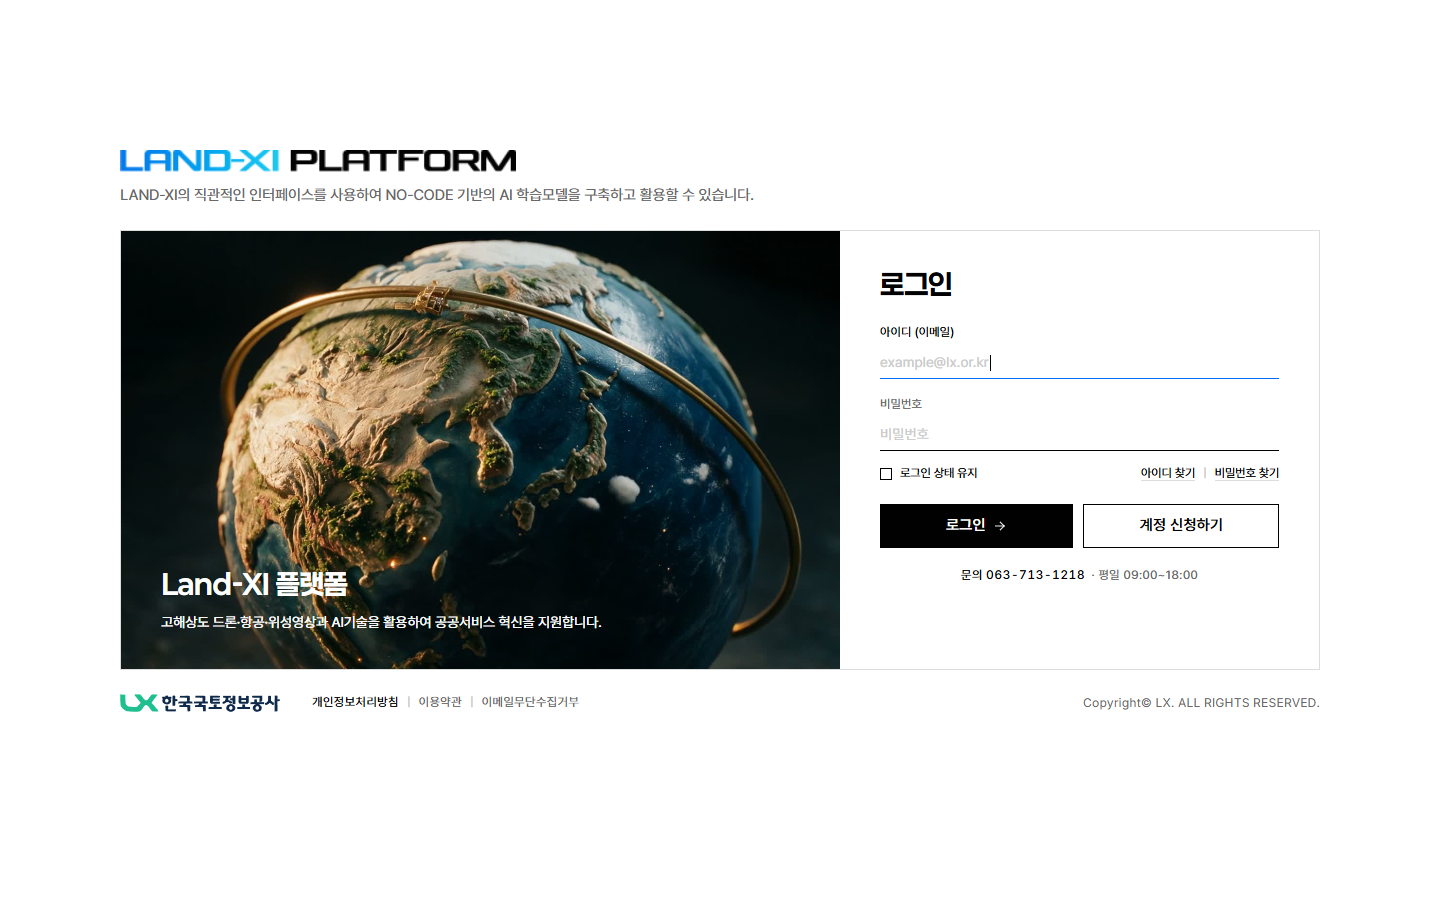
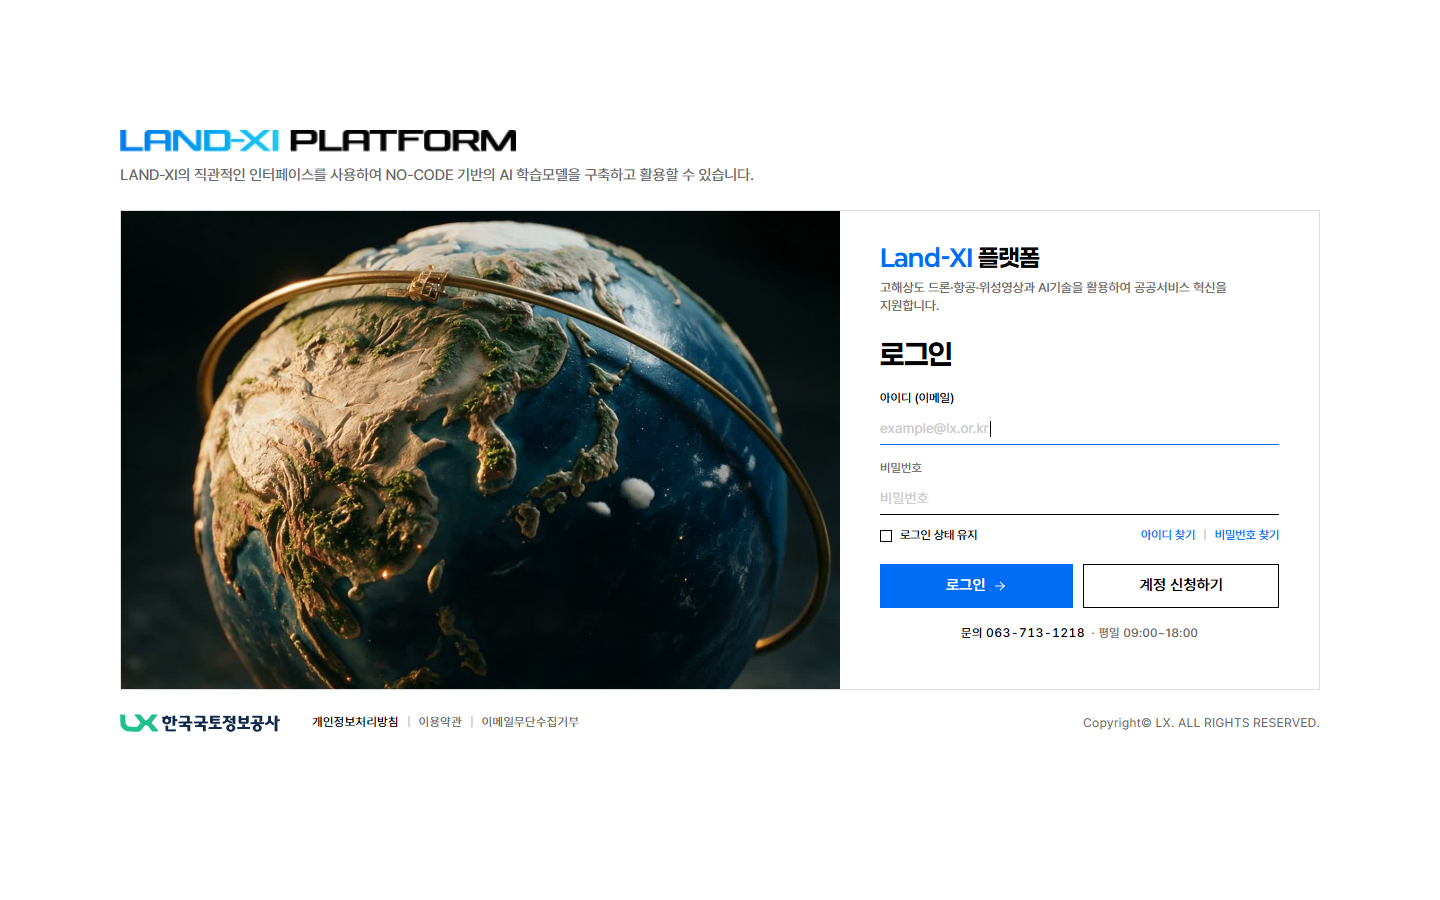
feat(login): 흑+청 배합 — 필름 안 글자 0, 태그라인을 로그인 제목 위로, CTA·링크·체크 액센트 #006DF7 (5차 개정)
- 필름 판: 태그라인 삭제(글자 0). 우 패널 맨 위에 Land-XI(액센트)+플랫폼(잉크) Paperlogy 24 + 한 줄 13 회색, 그 아래 로그인 28
- 카드 1200×440 → 1200×480(y 210–690, 중심 유지), 우 패널 세로 재배분(예산 478 중 424)
- 액센트 4곳: 워드마크 Land-XI · 로그인 CTA 채움(로그인 예외, NOTES §14) · 찾기 링크 · 체크. 계정 신청하기 헤어라인 잉크, 그라디언트/그림자/radius 0
- 마스터 B5-Login 동일 반영 + 렌더, e2e 17건(필름 텍스트 0 · 태그라인 위치 · 액센트 rgb(0,109,247) 자리 목록 · 카드 480) 통과

Claude-Session: https://claude.ai/code/session_01WM9MJXSpdbCfwY8af3obk9

Changed region(s): [[0.0625, 0.1244, 0.875, 0.8089], [0.75, 0.7778, 0.9062, 0.8089], [0.7812, 0.4978, 0.9062, 0.5289]]

diff --git a/landxi/proto/login.css b/landxi/proto/login.css
@@ -1,16 +1,16 @@
-/* Land-XI 로그인 — 마스터 design-canvas/v2/B5-Login.dc.html (NOTES §14 · 4차 개정).
-   구 랜드XI(login.do)의 구도만 가져온다: 페이지 중앙의 작은 카드 하나(1200×440, 1440×900 에서 x 120–1320 · y 230–670),
-   좌 60% = 디오라마 오프닝 필름(Leg 01) + 흰 태그라인 · 우 40% = 압축 폼. 카드 위 = Land-XI CI + 원본 소개 한 줄,
+/* Land-XI 로그인 — 마스터 design-canvas/v2/B5-Login.dc.html (NOTES §14 · 5차 개정).
+   구 랜드XI(login.do)의 구도만 가져온다: 페이지 중앙의 작은 카드 하나(1200×480, 1440×900 에서 x 120–1320 · y 210–690),
+   좌 60% = 디오라마 오프닝 필름(Leg 01, 글자 0) · 우 40% = 태그라인 + 압축 폼. 카드 위 = Land-XI CI + 원본 소개 한 줄,
    카드 아래 = LX 락업 + 정책 링크 + Copyright. 원본의 어두운 배경/글로우는 가져오지 않는다.
    서체(발주 결정 2026-08-27): 표시 Paperlogy 700 / 본문·라벨·버튼 Pretendard / 숫자 Inter tabular · 헤어라인 #DDD · radius 0 · shadow 0 · 12px 바닥.
-   톤 T3: 잉크 시스템 + 액센트 #006DF7(포커스 밑줄 · 링크 호버) · CTA 는 잉크.
+   톤 T3 흑+청(5차, 발주 "검정과 파란색의 배합"): 액센트 #006DF7 = 워드마크 Land-XI · 로그인 CTA 채움(로그인 예외) · 포커스 밑줄 · 찾기 링크 · 체크. 나머지 잉크/회색. 그라디언트·그림자·radius 0.
 
    프리미티브는 system.css 에서 온다: .lx-skip · .lx-num · [--lx-*] 토큰.
    여기 있는 것은 이 화면에만 있는 것뿐이다: 카드 · .lx-field(밑줄 폼) · .lx-check · 필름 판 · 태그라인. */
 
 :root{
   --lg-card-w:1200px;
-  --lg-card-h:440px;
+  --lg-card-h:480px;            /* 5차: 태그라인이 우 패널로 오면서 440 → 480 */
   --lg-gap:24px;                /* 카드 ↔ 위 소개 / 아래 푸터 */
   --lg-pad:40px;                /* 폼 패널 패딩 */
 }
@@ -46,23 +46,24 @@ body.lx{ overflow:hidden; background:var(--lx-paper); color:var(--lx-ink); }
   border:1px solid var(--lx-hair); background:var(--lx-paper);
 }
 
-/* 좌 60% — 필름 판. 태그라인은 좌하(지구본의 밝은 대륙을 피해 어두운 하단). 캡션·브래킷 0. */
+/* 좌 60% — 필름 판. 글자·캡션·브래킷 0 — 필름만. */
 .lg-film{ position:relative; flex:0 0 60%; margin:0; min-width:0; overflow:hidden; background:var(--lx-ink); }
 .lg-film__v{ display:block; width:100%; height:100%; object-fit:cover; object-position:50% 50%; }
-.lg-tag{ position:absolute; left:40px; right:40px; bottom:36px; color:#FFFFFF; }
-.lg-tag__t{ display:block; font-family:var(--font-display); font-weight:700; font-size:28px; line-height:36px; letter-spacing:-.02em; }
-.lg-tag__s{ display:block; margin-top:8px; font-size:14px; line-height:22px; letter-spacing:-.005em; }
 
-/* 우 40% — 압축 폼 */
-.lg-panel{ position:relative; flex:0 0 40%; min-width:0; padding:36px var(--lg-pad) 0; }
-.lg-h1{ margin:0; font-family:var(--font-display); font-weight:700; font-size:28px; line-height:36px; letter-spacing:-.02em; }
+/* 우 40% — 태그라인(필름에서 옮겨 옴) + 압축 폼. 세로 예산 478: 32 + 태그 30+6+36(2줄) + 22 + 제목 36 + 18 + 필드 60×2+10 + 옵션 18 + 20 + 버튼 44 + 18 + 문의 14 = 424 */
+.lg-panel{ position:relative; flex:0 0 40%; min-width:0; padding:32px var(--lg-pad) 0; }
+.lg-tag{ margin:0; color:var(--lx-ink); }
+.lg-tag__t{ display:block; font-family:var(--font-display); font-weight:700; font-size:24px; line-height:30px; letter-spacing:-.02em; }
+.lg-tag__xi{ color:var(--lx-accent); }   /* 흑+청 — 워드마크의 Land-XI 만 액센트 */
+.lg-tag__s{ display:block; margin-top:6px; font-size:13px; line-height:18px; letter-spacing:-.005em; color:var(--lx-grey-2); word-break:keep-all; }
+.lg-h1{ margin:22px 0 0; font-family:var(--font-display); font-weight:700; font-size:28px; line-height:36px; letter-spacing:-.02em; }
 .lg-banner{ margin:8px 0 0; font-size:12px; line-height:16px; color:var(--lx-ink); }
 .lg-banner[hidden]{ display:none; }
 .lg-banner::before{ content:""; display:inline-block; width:6px; height:6px; background:var(--lx-ink); margin-right:8px; vertical-align:1px; }
 
 /* ── 폼 — 밑줄 필드(박스 0). 포커스 = 밑줄이 액센트로 그어진다. ───────────── */
-.lg-form{ margin-top:22px; }
-.lx-field{ position:relative; padding-bottom:6px; margin-bottom:12px; }
+.lg-form{ margin-top:18px; }
+.lx-field{ position:relative; padding-bottom:6px; margin-bottom:10px; }
 .lx-field__label{ display:block; font-size:12px; line-height:14px; letter-spacing:.01em; color:var(--lx-grey-2); }
 .lx-field.is-focus .lx-field__label{ color:var(--lx-ink); }
 .lx-field__input{
@@ -88,22 +89,22 @@ body.lx{ overflow:hidden; background:var(--lx-paper); color:var(--lx-ink); }
 .lx-check{ display:inline-flex; align-items:center; gap:8px; cursor:pointer; font-size:12px; line-height:16px; letter-spacing:-.01em; position:relative; }
 .lx-check input{ position:absolute; opacity:0; width:0; height:0; }
 .lx-check__box{ width:12px; height:12px; border:1px solid var(--lx-ink); flex:none; }
-.lx-check input:checked + .lx-check__box{ background:var(--lx-ink); }
-.lx-check input:focus-visible + .lx-check__box{ outline:1px solid var(--lx-ink); outline-offset:2px; }
+.lx-check input:checked + .lx-check__box{ background:var(--lx-accent); border-color:var(--lx-accent); }   /* 체크 = 액센트 */
+.lx-check input:focus-visible + .lx-check__box{ outline:1px solid var(--lx-accent); outline-offset:2px; }
 .lg-find{ margin-left:auto; display:flex; align-items:center; gap:8px; }
-.lg-find__a{ font-size:12px; line-height:16px; letter-spacing:-.01em; color:var(--lx-ink); text-decoration:none; border-bottom:1px solid var(--lx-hair); transition:border-color var(--lx-hover) var(--lx-hover-ease); }
-.lg-find__a:hover{ color:var(--lx-accent); border-bottom-color:var(--lx-accent); }
+.lg-find__a{ font-size:12px; line-height:16px; letter-spacing:-.01em; color:var(--lx-accent); text-decoration:none; border-bottom:1px solid transparent; transition:border-color var(--lx-hover) var(--lx-hover-ease); }   /* 찾기 링크 = 액센트 */
+.lg-find__a:hover{ border-bottom-color:var(--lx-accent); }
 .lg-sep{ font-size:12px; color:var(--lx-grey); }
 
-/* 버튼 2 나란히 — 로그인(잉크 채움) · 계정 신청하기(헤어라인) */
-.lg-actions{ display:flex; gap:10px; margin-top:22px; }
+/* 버튼 2 나란히 — 로그인(액센트 채움 — 로그인 페이지의 유일한 색 채움 CTA, NOTES §14 로그인 예외) · 계정 신청하기(헤어라인 잉크) */
+.lg-actions{ display:flex; gap:10px; margin-top:20px; }
 .lg-submit{
   display:flex; align-items:center; justify-content:center; gap:8px; flex:none; width:calc(50% - 5px); height:44px; margin:0; padding:0;
-  border:0; border-radius:0; background:var(--lx-ink); color:#FFFFFF; cursor:pointer;
+  border:0; border-radius:0; background:var(--lx-accent); color:#FFFFFF; cursor:pointer;
   font-family:var(--lx-body); font-weight:500; font-size:15px; letter-spacing:.02em;
 }
 .lg-submit[disabled]{ cursor:default; opacity:.6; }
-.lg-submit:focus-visible{ outline:1px solid var(--lx-ink); outline-offset:3px; }
+.lg-submit:focus-visible{ outline:1px solid var(--lx-accent); outline-offset:3px; }
 .lg-submit svg{ transition:transform var(--lx-hover) var(--lx-hover-ease); }
 .lg-submit:hover svg{ transform:translateX(4px); }
 .lg-signup__a{
@@ -114,7 +115,7 @@ body.lx{ overflow:hidden; background:var(--lx-paper); color:var(--lx-ink); }
 }
 .lg-signup__a:hover{ color:var(--lx-accent); border-color:var(--lx-accent); }
 
-.lg-contact{ margin:20px 0 0; display:flex; justify-content:center; align-items:baseline; gap:6px; font-size:12px; line-height:14px; letter-spacing:.04em; color:var(--lx-grey-2); }
+.lg-contact{ margin:18px 0 0; display:flex; justify-content:center; align-items:baseline; gap:6px; font-size:12px; line-height:14px; letter-spacing:.04em; color:var(--lx-grey-2); }
 .lg-contact__ink{ color:var(--lx-ink); }
 .lg-contact__ink b{ font-weight:500; }
 
@@ -135,7 +136,6 @@ body.lx{ overflow:hidden; background:var(--lx-paper); color:var(--lx-ink); }
 /* ── <1280 — 카드가 100%−64 로 줄어든다(비율 60/40 유지) ── */
 @media (max-width: 1279px){
   .lg-wrap{ width:calc(100% - 64px); }
-  .lg-tag{ left:28px; right:28px; bottom:28px; }
 }
 
 /* ── <900 — 세로 스택: 소개 → 필름 → 폼 → 푸터 ── */
@@ -146,7 +146,7 @@ body.lx{ overflow:hidden; background:var(--lx-paper); color:var(--lx-ink); }
   .lg-head{ position:static; margin-bottom:24px; }
   .lg-card{ flex-direction:column; height:auto; }
   .lg-film{ flex:none; height:40vh; min-height:240px; }
-  .lg-panel{ flex:none; padding:28px 24px 28px; }
+  .lg-panel{ flex:none; padding:24px 24px 28px; }
   .lg-foot{ position:static; margin-top:24px; flex-wrap:wrap; gap:12px 24px; white-space:normal; }
   .lg-foot__policy{ margin-left:0; }
   .lg-foot__legal{ margin-left:0; flex-basis:100%; }

diff --git a/design-canvas/v2/B5-Login.dc.html b/design-canvas/v2/B5-Login.dc.html
@@ -27,58 +27,58 @@ body{margin:0;background:#FFFFFF;color:#010102;font-family:'Pretendard','Paperlo
 </style></helmet>
 <div style="width:1440px;height:900px;position:relative;overflow:hidden;background:#FFFFFF;font-family:'Pretendard','Paperlogy',system-ui,sans-serif;color:#010102">
 
-<!-- 4차 개정 — 구 랜드XI(login.do) 구도: 페이지 중앙의 작은 카드 하나(1200×440, x 120–1320 · y 230–670 = 세로 중앙),
-     좌 60% 필름 판 + 짧은 태그라인, 우 40% 압축 폼. 카드 위 = 실제 Land-XI CI + 원본 소개 한 줄, 카드 아래 = LX 락업 + 정책 링크 + Copyright.
-     헤어라인 #DDD 1 · radius 0 · shadow 0 · 액센트는 포커스 밑줄뿐. 원본의 어두운 배경/글로우는 가져오지 않는다. -->
+<!-- 5차 개정 — 구 랜드XI(login.do) 구도: 페이지 중앙의 작은 카드 하나(1200×480, x 120–1320 · y 210–690 = 세로 중앙),
+     좌 60% 필름 판(글자 0), 우 40% = 태그라인(필름에서 옮김) + 압축 폼. 카드 위 = 실제 Land-XI CI + 원본 소개 한 줄, 카드 아래 = LX 락업 + 정책 링크 + Copyright.
+     헤어라인 #DDD 1 · radius 0 · shadow 0. 흑+청 배합(발주 5차): 액센트 #006DF7 = 워드마크 Land-XI · 로그인 CTA 채움(로그인 예외) · 포커스 밑줄 · 찾기 링크 · 체크. 나머지 잉크/회색. -->
 
 <!-- 카드 위 — CI 22 + 소개 한 줄(원본 카피) -->
-<img src="ci-landxi.png" alt="LAND-XI PLATFORM" style="position:absolute;left:120px;top:150px;height:22px;width:auto;display:block">
-<div style="position:absolute;left:120px;top:184px;width:1200px;font-size:15px;line-height:22px;letter-spacing:-.005em;color:#686868">LAND-XI의 직관적인 인터페이스를 사용하여 NO-CODE 기반의 AI 학습모델을 구축하고 활용할 수 있습니다.</div>
+<img src="ci-landxi.png" alt="LAND-XI PLATFORM" style="position:absolute;left:120px;top:130px;height:22px;width:auto;display:block">
+<div style="position:absolute;left:120px;top:164px;width:1200px;font-size:15px;line-height:22px;letter-spacing:-.005em;color:#686868">LAND-XI의 직관적인 인터페이스를 사용하여 NO-CODE 기반의 AI 학습모델을 구축하고 활용할 수 있습니다.</div>
 
-<!-- 카드 1200×440 -->
-<div style="position:absolute;left:120px;top:230px;width:1200px;height:440px;border:1px solid #DDDDDD;display:flex;background:#FFFFFF">
+<!-- 카드 1200×480 -->
+<div style="position:absolute;left:120px;top:210px;width:1200px;height:480px;border:1px solid #DDDDDD;display:flex;background:#FFFFFF">
 
-  <!-- 좌 60% — Leg 01 필름 판 + 태그라인 좌하(흰 Paperlogy · 지구본의 밝은 대륙을 피해 어두운 하단에, 캡션·브래킷 0) -->
+  <!-- 좌 60% — Leg 01 필름 판. 글자·캡션·브래킷 0 -->
   <div style="position:relative;flex:0 0 60%;height:100%;overflow:hidden;background:#010102">
     <img src="login-film.jpg" alt="" style="display:block;width:100%;height:100%;object-fit:cover;object-position:50% 50%">
-    <div style="position:absolute;left:40px;right:40px;bottom:36px;color:#FFFFFF">
-      <div class="d" style="font-size:28px;line-height:36px;letter-spacing:-.02em">Land-XI 플랫폼</div>
-      <div style="margin-top:8px;font-size:14px;line-height:22px;letter-spacing:-.005em;color:#FFFFFF">고해상도 드론·항공·위성영상과 AI기술을 활용하여 공공서비스 혁신을 지원합니다.</div>
-    </div>
   </div>
 
-  <!-- 우 40% — 압축 폼(패딩 40) -->
-  <div style="position:relative;flex:0 0 40%;height:100%;padding:36px 40px 0">
-    <div class="d" style="font-size:28px;line-height:36px;letter-spacing:-.02em">로그인</div>
+  <!-- 우 40% — 태그라인 + 압축 폼(패딩 28/40). 세로 예산 478: 32+30+6+36(2줄)+22+36+18+60+10+60+18+20+44+18+14 = 424 -->
+  <div style="position:relative;flex:0 0 40%;height:100%;padding:32px 40px 0">
+    <!-- 태그라인(필름에서 옮겨 옴) — Land-XI 액센트 · 플랫폼 잉크 · 한 줄 회색 13 -->
+    <div class="d" style="font-size:24px;line-height:30px;letter-spacing:-.02em"><span style="color:#006DF7">Land-XI</span> 플랫폼</div>
+    <div style="margin-top:6px;font-size:13px;line-height:18px;letter-spacing:-.005em;color:#686868;word-break:keep-all">고해상도 드론·항공·위성영상과 AI기술을 활용하여 공공서비스 혁신을 지원합니다.</div>
 
-    <!-- 아이디, 포커스: 밑줄 = 화면의 유일한 액센트 -->
-    <div style="margin-top:22px">
+    <div class="d" style="margin-top:22px;font-size:28px;line-height:36px;letter-spacing:-.02em">로그인</div>
+
+    <!-- 아이디, 포커스: 밑줄 = 액센트 -->
+    <div style="margin-top:18px">
       <div class="fld-l" style="color:#010102">아이디 (이메일)</div>
       <div class="fld" style="border-bottom:1px solid #006DF7"><div style="color:#CCCCCC">example@lx.or.kr</div><div style="width:1px;height:16px;background:#010102;margin-left:1px"></div></div>
     </div>
-    <div style="margin-top:18px">
+    <div style="margin-top:16px">
       <div class="fld-l">비밀번호</div>
       <div class="fld"><div style="color:#CCCCCC">비밀번호</div></div>
     </div>
 
-    <div style="margin-top:14px;display:flex;align-items:center">
+    <div style="margin-top:12px;display:flex;align-items:center">
       <div style="width:12px;height:12px;border:1px solid #010102;margin-right:8px"></div>
       <div class="link">로그인 상태 유지</div>
       <div style="margin-left:auto;display:flex;align-items:center;gap:8px">
-        <div class="link" style="border-bottom:1px solid #DDD">아이디 찾기</div><div class="sep">|</div><div class="link" style="border-bottom:1px solid #DDD">비밀번호 찾기</div>
+        <div class="link" style="color:#006DF7">아이디 찾기</div><div class="sep">|</div><div class="link" style="color:#006DF7">비밀번호 찾기</div>
       </div>
     </div>
 
-    <!-- 버튼 2 나란히: 로그인(잉크 채움) · 계정 신청하기(헤어라인) — 원본의 로그인 · 회원가입 자리 -->
-    <div style="margin-top:22px;display:flex;gap:10px">
-      <div style="flex:1;height:44px;background:#010102;display:flex;align-items:center;justify-content:center;gap:8px">
+    <!-- 버튼 2 나란히: 로그인(액센트 채움 — 로그인 예외) · 계정 신청하기(헤어라인 잉크) — 원본의 로그인 · 회원가입 자리 -->
+    <div style="margin-top:20px;display:flex;gap:10px">
+      <div style="flex:1;height:44px;background:#006DF7;display:flex;align-items:center;justify-content:center;gap:8px">
         <div class="b5" style="font-size:15px;color:#FFFFFF;letter-spacing:.02em">로그인</div>
         <svg width="14" height="14" viewBox="0 0 24 24" fill="none" stroke="#FFFFFF" stroke-width="1.6" stroke-linecap="square"><line x1="5" y1="12" x2="19" y2="12"/><polyline points="12 5 19 12 12 19"/></svg>
       </div>
       <div class="b5" style="flex:1;height:44px;border:1px solid #010102;display:flex;align-items:center;justify-content:center;font-size:15px;letter-spacing:.02em">계정 신청하기</div>
     </div>
 
-    <div style="margin-top:20px;display:flex;justify-content:center;align-items:baseline;gap:6px">
+    <div style="margin-top:18px;display:flex;justify-content:center;align-items:baseline;gap:6px">
       <div class="kb" style="color:#010102">문의 <span class="n5">063-713-1218</span></div>
       <div class="kb">· 평일 09:00~18:00</div>
     </div>
@@ -86,7 +86,7 @@ body{margin:0;background:#FFFFFF;color:#010102;font-family:'Pretendard','Paperlo
 </div>
 
 <!-- 카드 아래 — LX 락업 18 + 정책 링크 3 + Copyright -->
-<div style="position:absolute;left:120px;top:694px;width:1200px;display:flex;align-items:center;white-space:nowrap">
+<div style="position:absolute;left:120px;top:714px;width:1200px;display:flex;align-items:center;white-space:nowrap">
   <img src="ci-lx-lockup.svg" alt="LX 한국국토정보공사" style="display:block;height:18px;width:auto">
   <div style="display:flex;gap:8px;align-items:baseline;margin-left:32px">
     <div class="kb" style="color:#010102">개인정보처리방침</div><div class="sep">|</div><div class="kb">이용약관</div><div class="sep">|</div><div class="kb">이메일무단수집거부</div>

diff --git a/landxi/proto/login.html b/landxi/proto/login.html
@@ -9,8 +9,9 @@
 
 <a class="lx-skip" href="#loginForm">본문 건너뛰기</a>
 
-<!-- 마스터: design-canvas/v2/B5-Login.dc.html (NOTES §14 · 4차 개정) — 구 랜드XI(login.do) 구도.
-     페이지 중앙의 작은 카드 하나(1200×440): 좌 60% 필름 판 + 태그라인 · 우 40% 압축 폼.
+<!-- 마스터: design-canvas/v2/B5-Login.dc.html (NOTES §14 · 5차 개정) — 구 랜드XI(login.do) 구도.
+     페이지 중앙의 작은 카드 하나(1200×480): 좌 60% 필름 판(글자 0) · 우 40% 압축 폼(태그라인 → 로그인 → 필드 → 버튼).
+     흑 + 청 배합(5차): 워드마크 Land-XI · 로그인 CTA 채움 · 포커스 밑줄 · 찾기 링크 · 체크 = 액센트 #006DF7, 나머지 잉크/회색.
      카드 위 = 실제 Land-XI CI + 원본 소개 한 줄 · 카드 아래 = LX 락업 + 정책 링크 + Copyright. -->
 <div class="lg" id="lg">
   <div class="lg-wrap">
@@ -26,21 +27,22 @@
     <!-- ══ 카드 ══ -->
     <div class="lg-card" id="lgCard">
 
-      <!-- 좌 60% — 디오라마 오프닝 필름(Leg 01) + 태그라인(캡션 0). 유휴 움직임은 이 루프 하나. reduced-motion = 포스터. -->
+      <!-- 좌 60% — 디오라마 오프닝 필름(Leg 01). 필름 안 글자 0(발주 지시 5차). 유휴 움직임은 이 루프 하나. reduced-motion = 포스터. -->
       <figure class="lg-film" id="lgPlate" aria-label="디오라마 오프닝 필름">
         <video class="lg-film__v" id="lgVideo" autoplay muted loop playsinline preload="auto"
                poster="../assets/proto/film/legs/w01.webp">
           <source src="../assets/proto/film/legs/w01-m.mp4" type="video/mp4" media="(max-width: 900px)">
           <source src="../assets/proto/film/legs/w01.mp4" type="video/mp4">
         </video>
-        <figcaption class="lg-tag">
-          <strong class="lg-tag__t">Land-XI 플랫폼</strong>
-          <span class="lg-tag__s">고해상도 드론·항공·위성영상과 AI기술을 활용하여 공공서비스 혁신을 지원합니다.</span>
-        </figcaption>
       </figure>
 
       <!-- 우 40% — 압축 폼 -->
       <main class="lg-panel">
+        <!-- 태그라인(필름에서 옮겨 옴, 원본 카피) — Land-XI 는 액센트, 플랫폼은 잉크 -->
+        <p class="lg-tag">
+          <strong class="lg-tag__t"><span class="lg-tag__xi">Land-XI</span> 플랫폼</strong>
+          <span class="lg-tag__s">고해상도 드론·항공·위성영상과 AI기술을 활용하여 공공서비스 혁신을 지원합니다.</span>
+        </p>
         <h1 class="lg-h1">로그인</h1>
         <!-- ?logout — 원본 배너 문구. 잉크 한 줄. -->
         <p class="lg-banner" id="lgBanner" role="status" hidden>안전하게 로그아웃되었습니다.</p>
@@ -70,7 +72,7 @@
             </nav>
           </div>
 
-          <!-- 버튼 2 나란히 — 로그인(채운 CTA, 잉크) · 계정 신청하기(헤어라인). 원본의 로그인 · 회원가입 자리. -->
+          <!-- 버튼 2 나란히 — 로그인(채운 CTA, 액센트 — 로그인 예외) · 계정 신청하기(헤어라인 잉크). 원본의 로그인 · 회원가입 자리. -->
           <div class="lg-actions">
             <button type="submit" class="lg-submit" id="lgSubmit">
               <span class="lg-submit__t">로그인</span>
